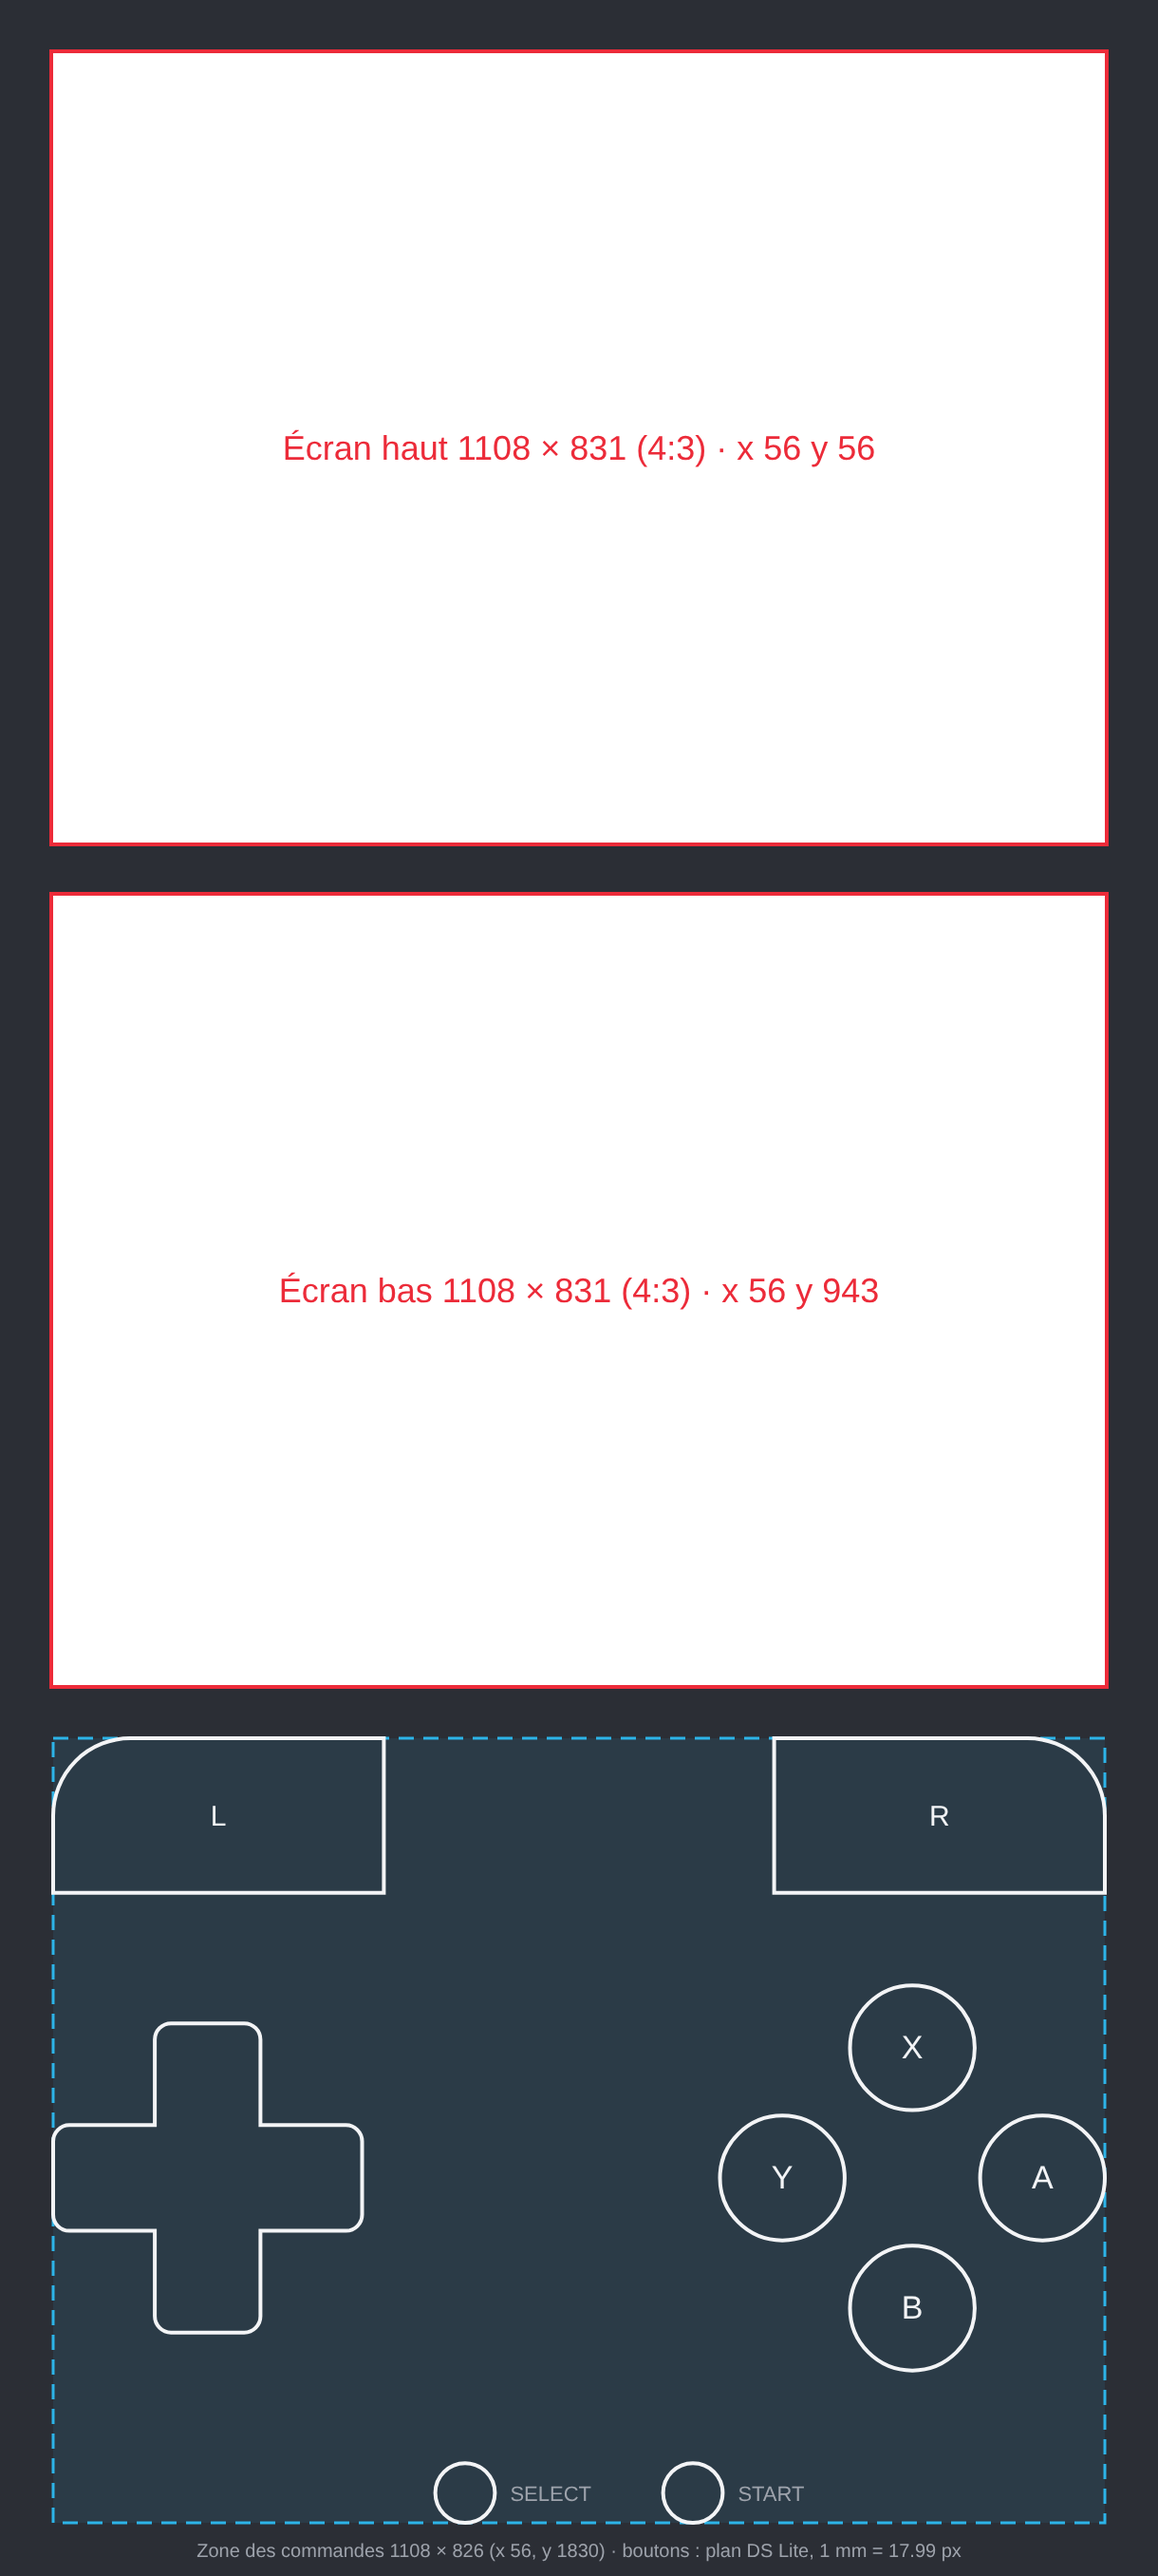
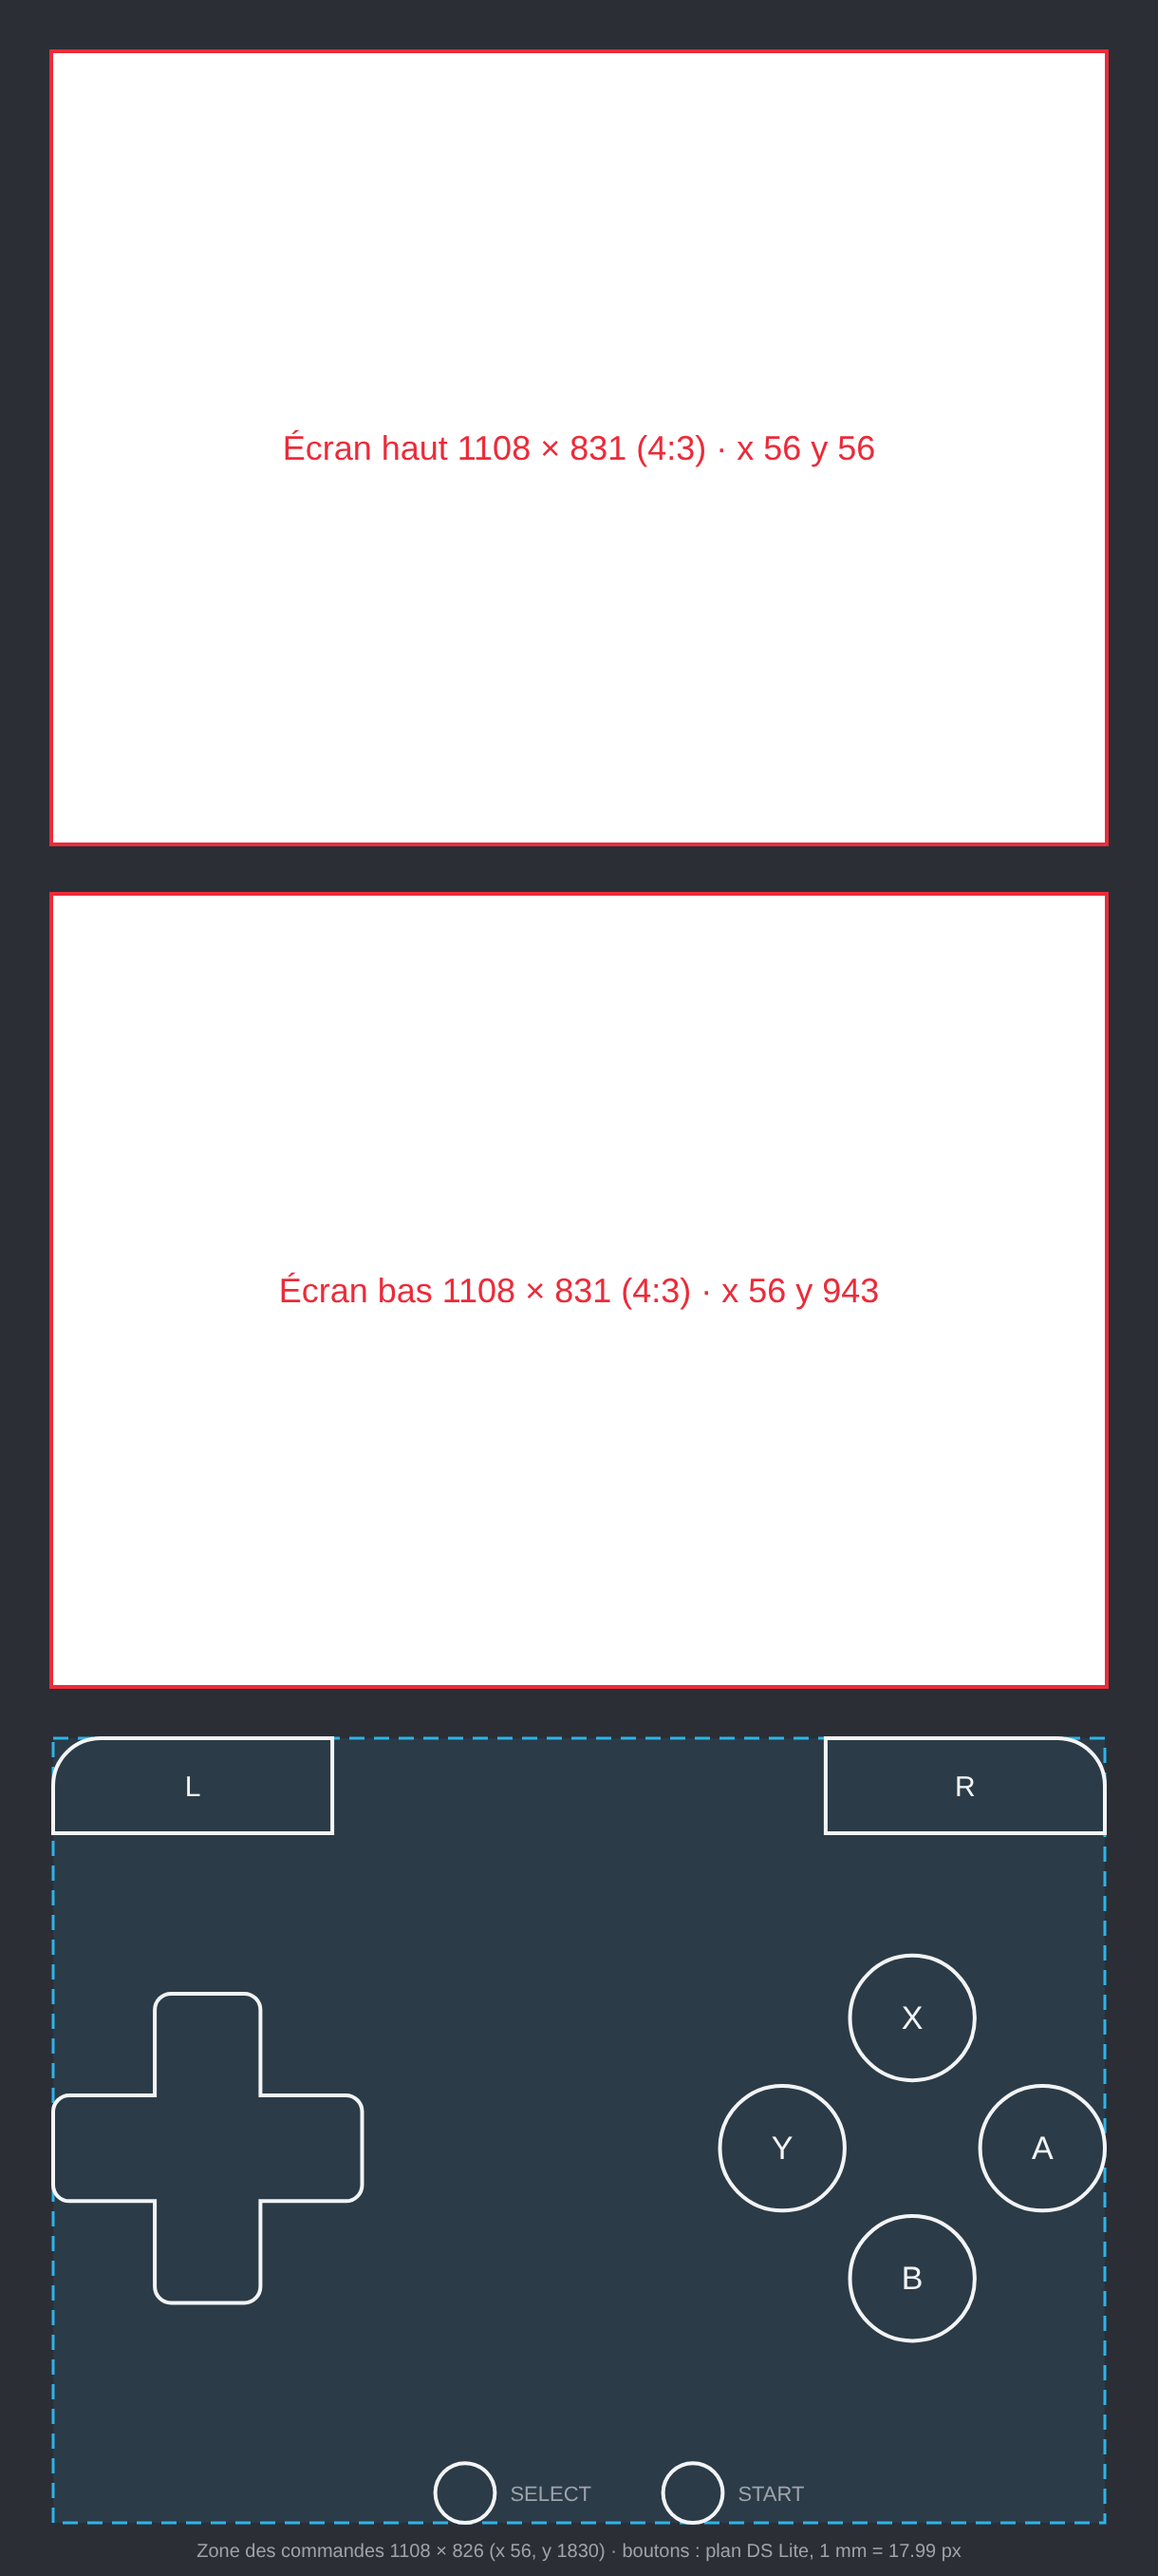
Skin templates: L and R in proportion to the other buttons
Owner's request, for both consoles; the other buttons are unchanged.
Width: the plan's front-view hinge end, at the scale the template already
uses for that console's buttons (3DS: 47.5 plan px x 5.7, the median of
the circle pad, D-pad, ABXY and START ratios, gives 271; DS: 51.5 x 5.711
gives 294). Height: 2.94:1, the aspect of the 3DS bumpers the owner kept,
since the plans show only the hinge's thickness there, not the button.
3DS L / R 249.7 x 84.9 -> 271 x 92; DS 348 x 163 -> 294 x 100 (its
D-pad / ABXY line recentred, the Classic layout updated to match).

Claude-Session: https://claude.ai/code/session_01BPwFCEgf2UrCo7R4tPEQGE

diff --git a/melonDS-android/app/src/main/java/me/magnum/melonds/impl/layout/ClassicLayoutProvider.kt b/melonDS-android/app/src/main/java/me/magnum/melonds/impl/layout/ClassicLayoutProvider.kt
@@ -27,17 +27,17 @@ class ClassicLayoutProvider(private val defaultLayoutProvider: DefaultLayoutProv
         // Template rectangles (x, y, width, height), in template pixels
         val TOP_SCREEN = Rect(56, 56, 1108, 831)
         val BOTTOM_SCREEN = Rect(56, 943, 1108, 831)
-        val BUTTON_L = Rect(56, 1830, 348, 163)
-        val BUTTON_R = Rect(816, 1830, 348, 163)
-        val DPAD = Rect(56, 2130, 326, 326)
-        val BUTTONS = Rect(758, 2090, 406, 406)
+        val BUTTON_L = Rect(56, 1830, 294, 100)
+        val BUTTON_R = Rect(870, 1830, 294, 100)
+        val DPAD = Rect(56, 2099, 326, 326)
+        val BUTTONS = Rect(758, 2059, 406, 406)
         val BUTTON_START = Rect(699, 2593, 63, 63)
         val BUTTON_SELECT = Rect(459, 2593, 63, 63)
 
         // Not on the DS: a row of four between L and R, so every input stays reachable
         const val UTILITY_SIZE = 96
-        const val UTILITY_SPACING = 8
-        const val UTILITY_TOP = 1830 + (163 - UTILITY_SIZE) / 2
+        const val UTILITY_SPACING = 24
+        const val UTILITY_TOP = 1830 + (100 - UTILITY_SIZE) / 2
         val UTILITY_COMPONENTS = listOf(
             LayoutComponent.BUTTON_HINGE,
             LayoutComponent.BUTTON_TOGGLE_SOFT_INPUT,
